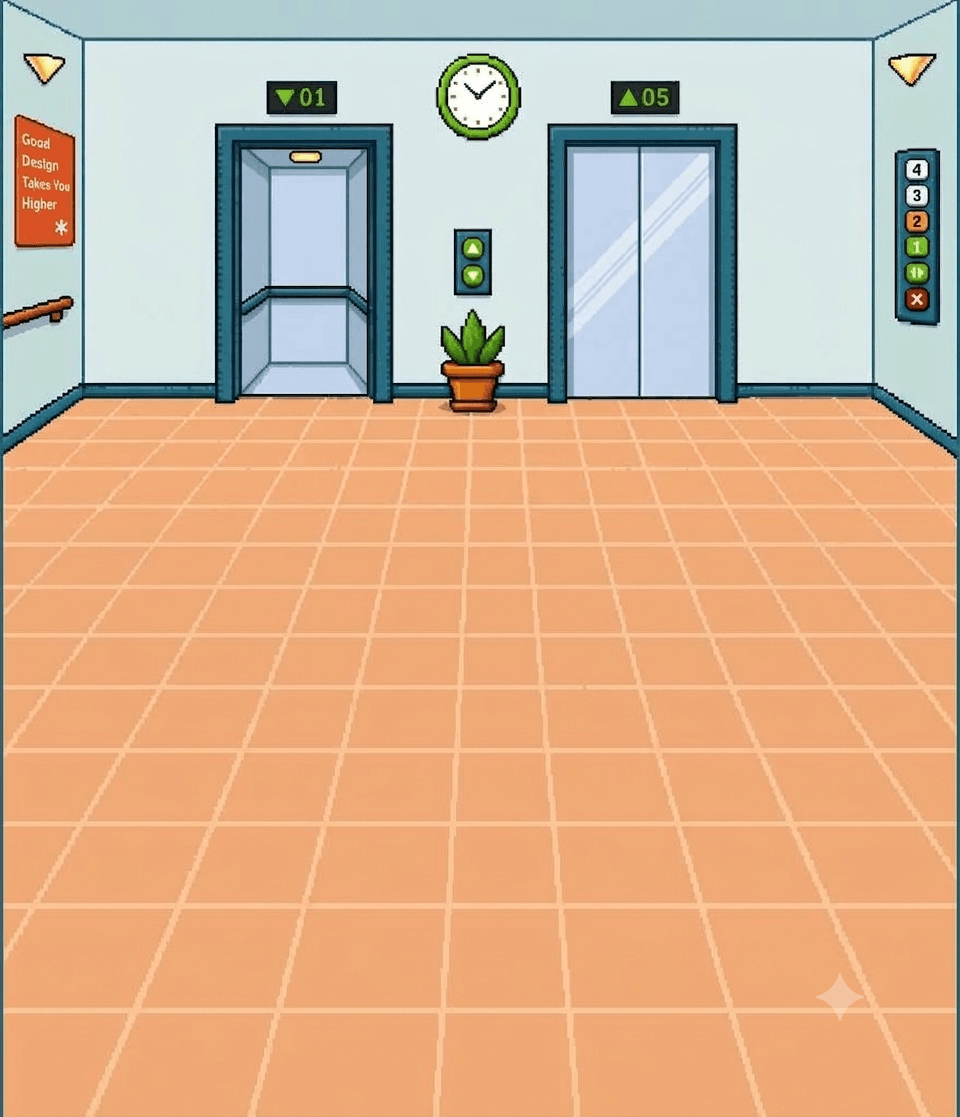
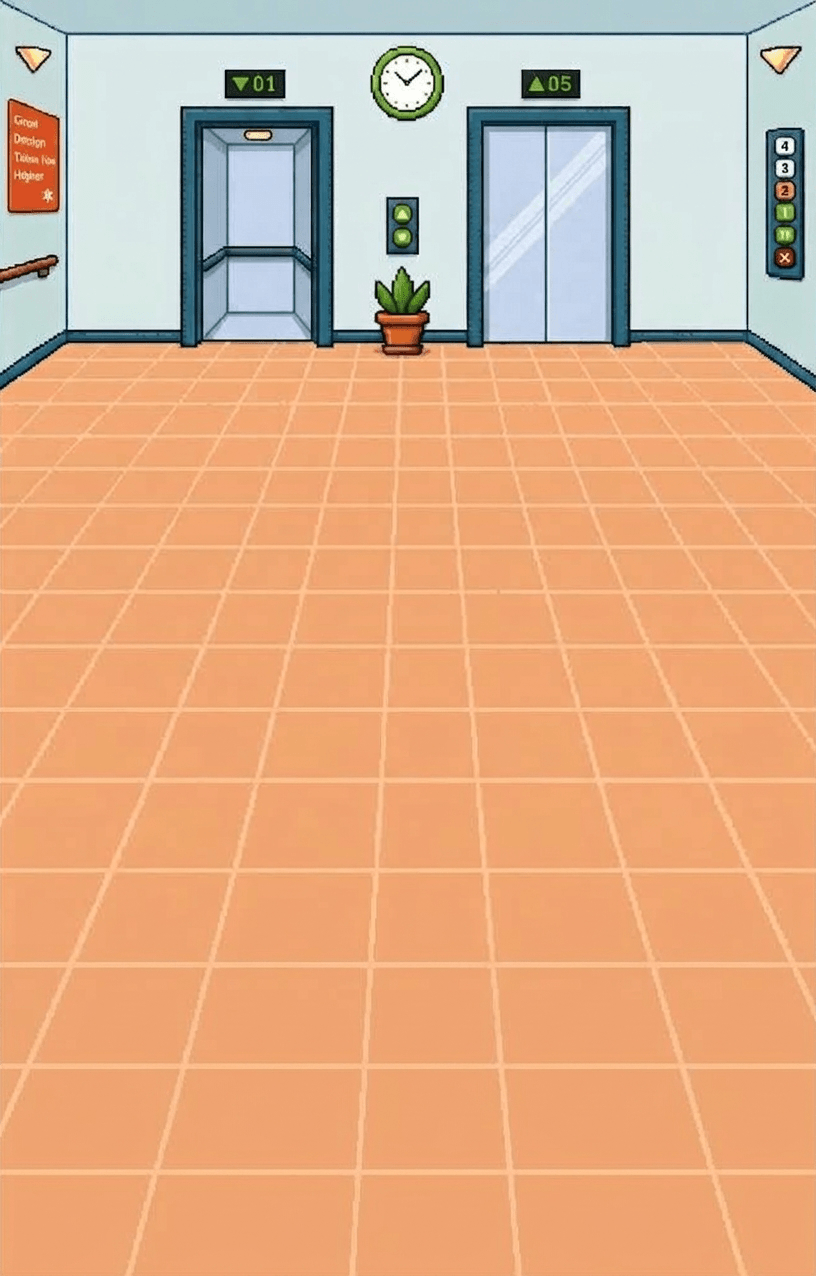
done

diff --git a/index.html b/index.html
@@ -166,7 +166,7 @@
         <template data-screen="4">
             <div class="title">Your Mission</div>
             <div class="copy">You meet Riya in the elevator at 0 floor.<br>She needs to go to the 3rd floor.</div>
-            <div class="mission">Impress Riya and secure an investment from her before her floor arrives.</div>
+            <div class="mission">Impress Riya and secure an investment <br>from her before her floor arrives.</div>
             <div class="timer"><img class="timer-icon" src="images/timer.png" alt=""> Time: 30 seconds</div><button class="go" data-next="5">Next</button>
         </template>
         <template data-screen="5">
@@ -178,7 +178,7 @@
         <template data-screen="6">
             <div class="char left asset-char" data-scene-character="founder" data-expression="neutral"><img src="images/character-1.png" width="204" height="402" alt="Character 1"></div>
             <div class="char right" data-scene-character="riya" data-expression="neutral"><img src="images/character-2.png" width="220" height="360" alt="Character 2"></div>
-            <div class="copy" style="margin-bottom:170px">The elevator doors close. You and Riya are finally alone.
+            <div class="copy" style="margin-bottom:170px">The elevator doors close.<br> You and Riya are finally alone.
             </div><button class="go" data-next="7">Next</button>
         </template>
         <template data-screen="7">
@@ -201,7 +201,7 @@
         </template><template data-screen="9">
             <div class="char left asset-char" data-scene-character="founder" data-expression="neutral"><img src="images/character-1-confident.png " width="204" height="402" alt="Character 1"></div>
             <div class="char right" data-scene-character="riya" data-expression="neutral"><img src="images/character-2-good-look.png" width="220" height="360" alt="Character 2"></div>
-            <div class="title">You picked the right answer, Good job!</div>
+            <div class="title">You picked the right answer,<br> Good job!</div>
             <div class="copy">You have her attention now.</div> 
             <div class="timer"><img class="timer-icon" src="images/timer.png" alt=""> 60 seconds will start</div><button class="go" data-next="10"
                 data-start-timer="60">GO</button>
@@ -214,7 +214,7 @@
         <template data-screen="11">
             <div class="char left asset-char" data-scene-character="founder" data-expression="neutral"><img src="images/character-1-thinking.png" width="204" height="402" alt="Character 1"></div>
             <div class="char right" data-scene-character="riya" data-expression="neutral"><img src="images/character-2-being-late.png" width="220" height="360" alt="Character 2"></div>
-            <div class="title">Ohh no...she's rethinking. Choose fast!</div>
+            <div class="title">Ohh no...she's rethinking.<br> Choose fast!</div>
             <div class="choice-row"><button class="choice" data-choice="0">
                     <div class="selected_mock"><figure class="mock"><img src="images/mock-bottles.png" width="130" height="130" alt="Multiple blank bottle mockups"><figcaption>Multiple blank bottle mockups</figcaption></figure></div>
                 </button><button class="choice" data-choice="1">

diff --git a/css/style.css b/css/style.css
@@ -356,9 +356,9 @@ input {
     color: #111;
     border: 0;
     box-shadow: none;
-    padding: 46px 38px 64px;
-    font-size: 15px;
-    line-height: 1.35;
+    padding: 40px 32px 65px;
+    font-size: 16px;
+    line-height: 1.4;
     white-space: pre-line;
     text-align: center;
     display: flex;
@@ -570,6 +570,7 @@ input {
 
 .title {
     font-size: 22px;
+    line-height: 1.4;
     font-weight: 900;
     color: #fff
 }
@@ -694,6 +695,7 @@ input {
 .screen-content > .selected_mock{
     filter: drop-shadow(0 0 4px rgba(139, 234, 16, .85));
     max-width: calc(50% - 22px);
+    min-width: 200px;
 }
 
 .choice.selected {
@@ -1259,7 +1261,8 @@ figure.mock {
     .ui {
         width: min(640px, 68vw);
         top: 5%;
-        bottom: 8%;
+        bottom: auto;
+        max-height: 90vh;
     }
 
     .char {
@@ -1289,10 +1292,10 @@ figure.mock {
 
 @media(max-width:720px) {
     .ui {
-        width: 48vw;
+        width: 80vw;
         min-width: 225px;
         top: 2%;
-        bottom: 2%
+        bottom: auto;
     }
 
     .char {
@@ -1307,8 +1310,8 @@ figure.mock {
         max-width: 145px;
         min-height: 150px;
         padding: 28px 18px 42px;
-        font-size: 9px;
-        line-height: 1.25
+        font-size:11px;
+        line-height: 1.35
     }
 
     .choice-row {
@@ -1348,7 +1351,7 @@ figure.mock {
 
     .rightStat,
     .leftStat {
-        font-size: 9px
+        font-size: 12px
     }
 
     .panel {
@@ -1356,7 +1359,7 @@ figure.mock {
     }
 
     .screen {
-        padding: 20px 3px 20px;
+        padding: 20px 12px 20px;
         overflow: hidden;
     }
 
@@ -1380,30 +1383,40 @@ figure.mock {
     }
 
     .title {
-        font-size: 14px
+        font-size: 16px
     }
 
     .sub,
     .copy,
     .go,
     .choice-title {
-        font-size: 10px
+        font-size: 16px
     }
 
     .choice {
-        padding: 8px;
+        padding: 16px;
         min-height: 60px
     }
 
     .choice-row {
-        gap: 8px;
+        gap: 16px;
         margin-top: 8px
     }
 
     .choice {
-        padding: 5px;
-        font-size: 8px;
-        line-height: 1.15
+        padding: 16px;
+        font-size: 13px;
+        line-height: 1.25
+    }
+    .mock {
+    width: 110px;
+    height: 110px;
+    }
+    .choice, .screen-content > .selected_mock{
+                min-height: 170px;
+    }
+    .screen-content > .selected_mock{
+        min-width: 150px;
     }
 
 }
